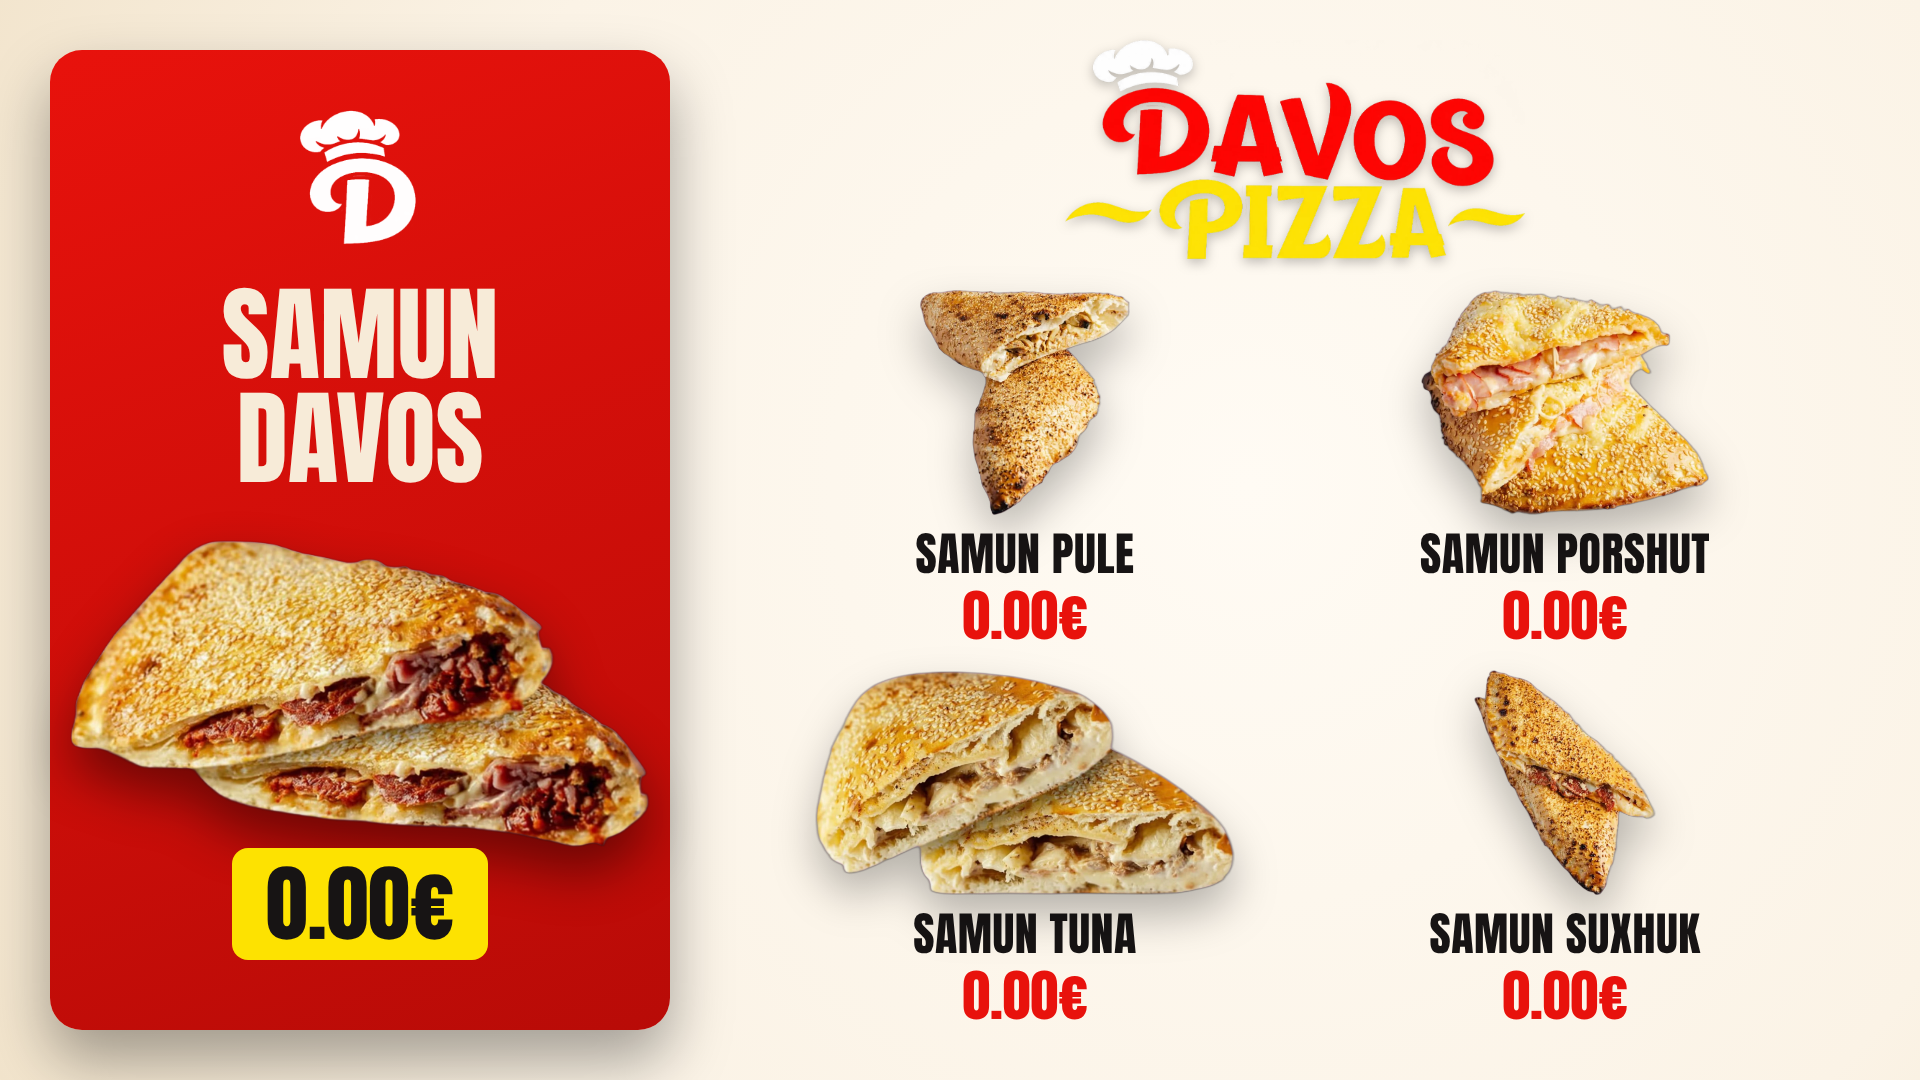
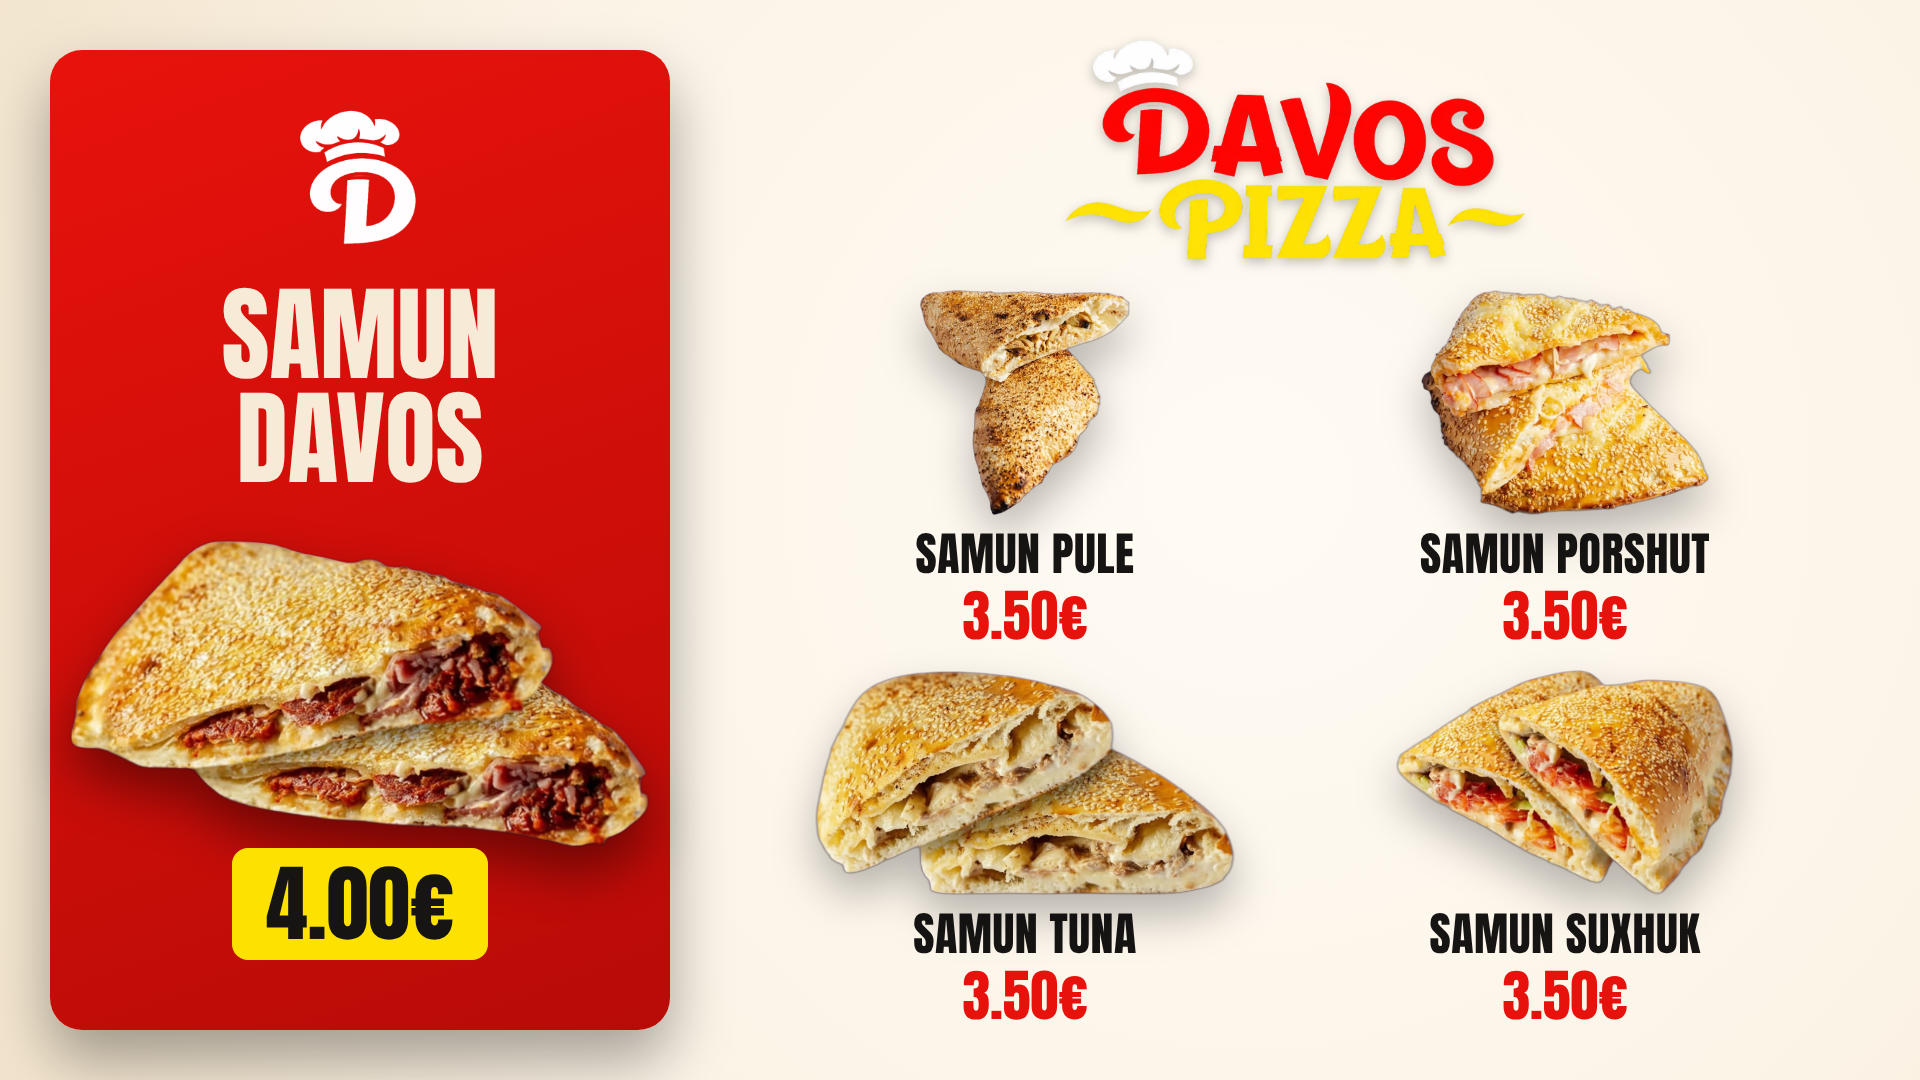
Samun menu: prices and new Suxhuk photo
Claude-Session: https://claude.ai/code/session_01Xb7jPxrPq6UpPr8fj4vFP7

diff --git a/videos/davos-burgers/src/config.ts b/videos/davos-burgers/src/config.ts
@@ -64,9 +64,9 @@ export const SANDWICHES: { id: SandwichId; line1: string; line2: string; price: 
 
 // ---------- Samun menu (static image) ----------
 export const SAMUNS: { id: string; line1: string; line2: string; price: string }[] = [
-  { id: "mix", line1: "SAMUN", line2: "DAVOS", price: "0.00" },
-  { id: "pule", line1: "SAMUN", line2: "PULE", price: "0.00" },
-  { id: "porshut", line1: "SAMUN", line2: "PORSHUT", price: "0.00" },
-  { id: "tuna", line1: "SAMUN", line2: "TUNA", price: "0.00" },
-  { id: "suxhuk", line1: "SAMUN", line2: "SUXHUK", price: "0.00" },
+  { id: "mix", line1: "SAMUN", line2: "DAVOS", price: "4.00" },
+  { id: "pule", line1: "SAMUN", line2: "PULE", price: "3.50" },
+  { id: "porshut", line1: "SAMUN", line2: "PORSHUT", price: "3.50" },
+  { id: "tuna", line1: "SAMUN", line2: "TUNA", price: "3.50" },
+  { id: "suxhuk", line1: "SAMUN", line2: "SUXHUK", price: "3.50" },
 ];
